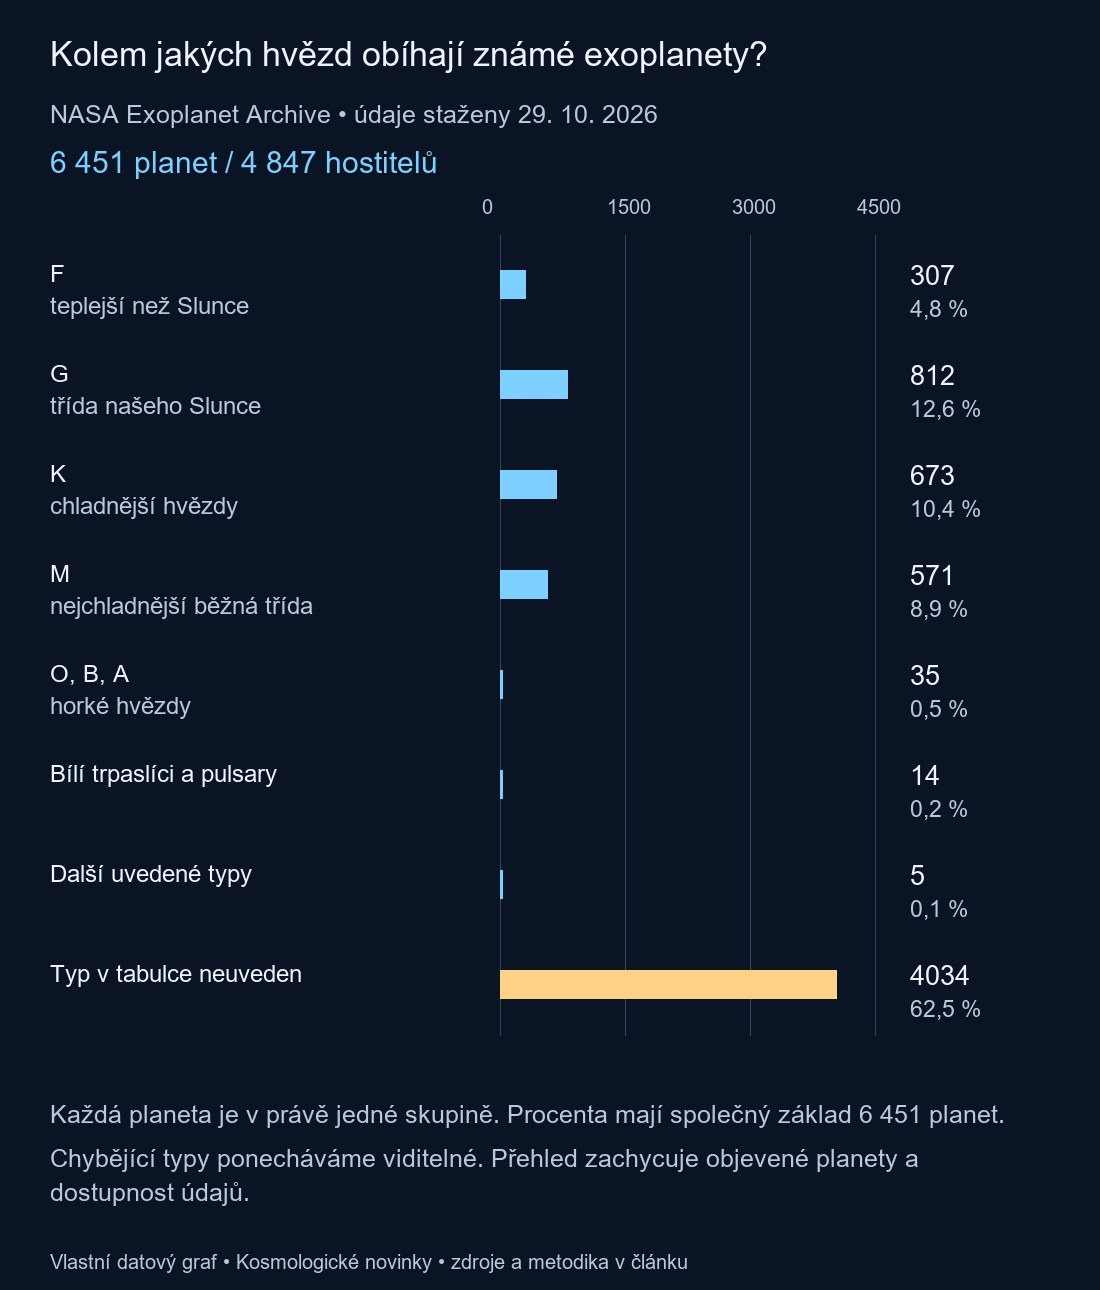
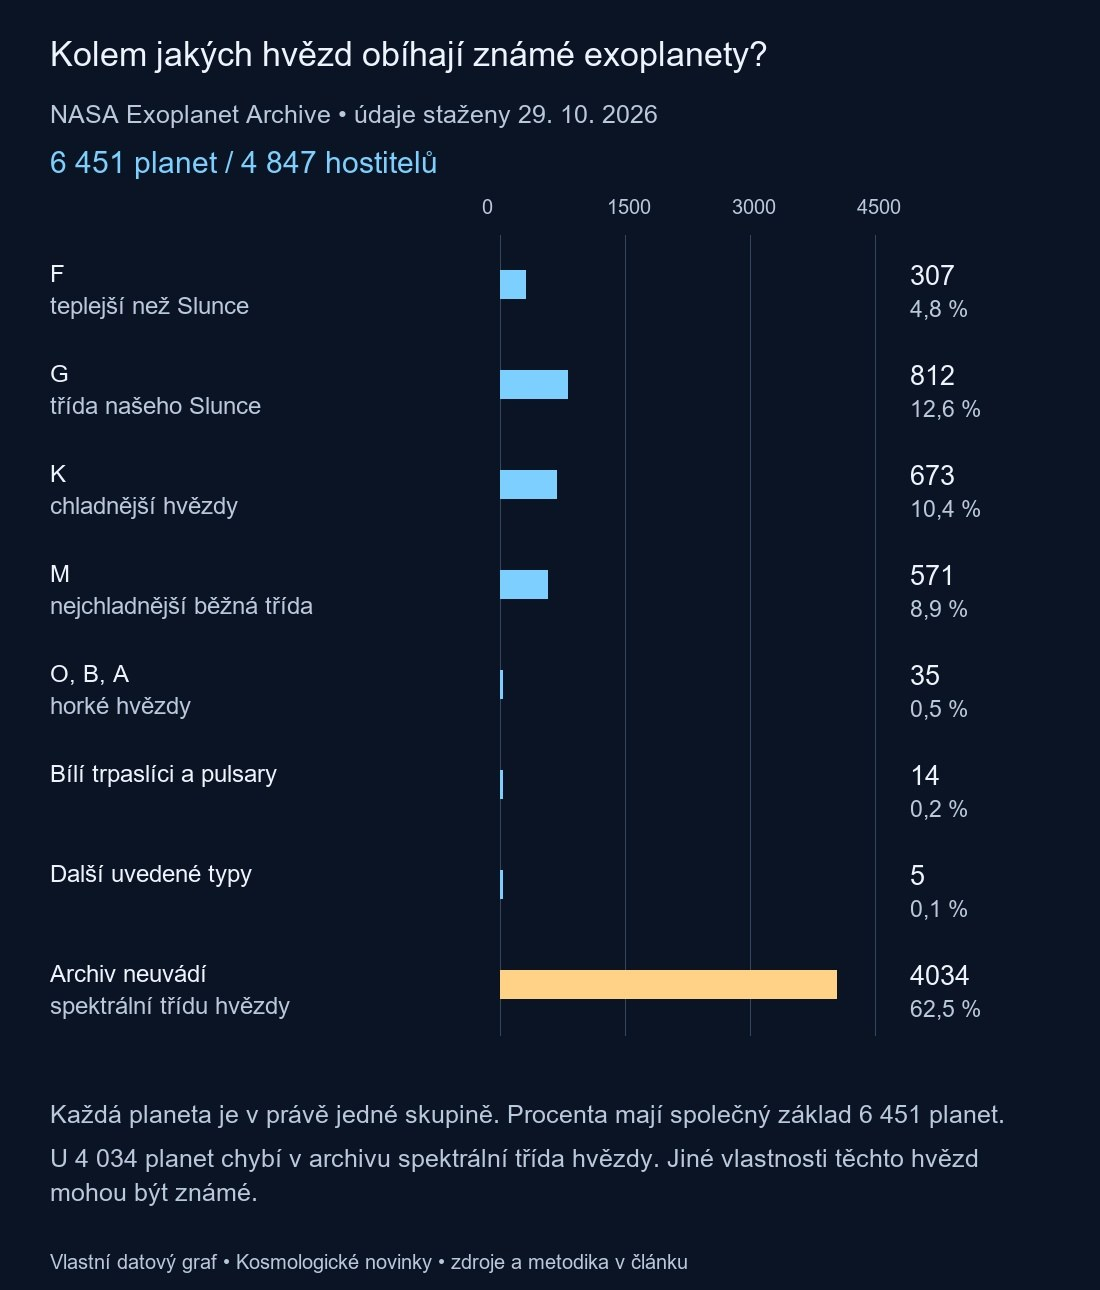
Add files via upload

diff --git a/tools/exoplanet_population_diagrams.py b/tools/exoplanet_population_diagrams.py
@@ -21,7 +21,7 @@ def diagram(entry):
  data=json.loads((Path(__file__).resolve().parents[1]/entry['data_file']).read_text(encoding='utf8'));kind=entry['diagram'];h=1290 if kind=='exopop-hosts' else 1510 if kind=='exopop-flux' else 950
  im=Image.new('RGB',(1100,h),BG);d=ImageDraw.Draw(im)
  if kind=='exopop-hosts':
-  txt(d,50,35,'Kolem jakých hvězd známe planety?',38);txt(d,50,100,'NASA Exoplanet Archive • údaje staženy 29. 10. 2026',25,MUTED)
+  txt(d,50,35,'Kolem jakých hvězd obíhají známé exoplanety?',34);txt(d,50,100,'NASA Exoplanet Archive • údaje staženy 29. 10. 2026',25,MUTED)
   txt(d,50,145,f"{data['total_planets']:,} planet / {data['host_names']:,} hostitelů".replace(',',' '),30,BLUE)
   x0,x1=500,875;top=260;mx=4500
   for v in [0,1500,3000,4500]:
@@ -32,7 +32,7 @@ def diagram(entry):
    x=x0+(x1-x0)*g['count']/mx;d.rectangle((x0,y+10,max(x0+2,x),y+38),fill=GOLD if g['key']=='missing' else BLUE)
    txt(d,910,y,str(g['count']),27);txt(d,910,y+36,num(g['percent'],1)+' %',23,MUTED)
   y=1100;y=txt(d,50,y,'Každá planeta je v právě jedné skupině. Procenta mají společný základ 6 451 planet.',25,MUTED)
-  txt(d,50,y+10,'Chybějící typy ponecháváme viditelné. Přehled zachycuje objevené planety a dostupnost údajů.',25,MUTED)
+  txt(d,50,y+10,'U 4 034 planet chybí v archivu spektrální třída hvězdy. Jiné vlastnosti těchto hvězd mohou být známé.',25,MUTED)
  elif kind=='exopop-flux':
   txt(d,50,35,'Kolik energie dostávají vybrané planety?',36);txt(d,50,100,'Příjem hvězdné energie na jednotku plochy • Země = 1',25,MUTED)
   x0,x1=425,1015;top=245;rows=data['sample']+[{'pl_name':'Země — srovnání','hostname':'Slunce','pl_insol':1,'pl_insolerr1':None,'pl_insolerr2':None}]
